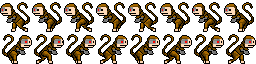
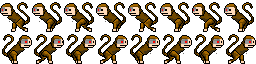
Detach cyber monkey arm for robot war.

diff --git a/SDL_CL_Surface.cpp b/SDL_CL_Surface.cpp
@@ -179,24 +179,28 @@ int SDL_CL_Surface::get_num_frames()
 
 void SDL_CL_Surface::put_screen(int x, int y, int spr_no /* = 0*/)
 {
-	_impl->put_screen(x, y, spr_no);
+	if (!is_null())
+		_impl->put_screen(x, y, spr_no);
 }
 
 void SDL_CL_Surface::put_screen(int x, int y, int scale_x, int scale_y, int spr_no /* = 0*/)
 {
-	int col = spr_no % _impl->_col;
-	int row = spr_no / _impl->_col;
-	SDL_Rect destrect;
-	destrect.x = x;
-	destrect.y = y;
-	destrect.w = scale_x;
-	destrect.h = scale_y;
-	SDL_Rect srcrect;
-	srcrect.x = _impl->_x + _impl->_w * col;
-	srcrect.y = _impl->_y + _impl->_h * row;
-	srcrect.w = _impl->_w;
-	srcrect.h = _impl->_h;
-	SDL_RenderCopy(game_renderer, _impl->_t, &srcrect, &destrect);
+	if (!is_null())
+	{
+		int col = spr_no % _impl->_col;
+		int row = spr_no / _impl->_col;
+		SDL_Rect destrect;
+		destrect.x = x;
+		destrect.y = y;
+		destrect.w = scale_x;
+		destrect.h = scale_y;
+		SDL_Rect srcrect;
+		srcrect.x = _impl->_x + _impl->_w * col;
+		srcrect.y = _impl->_y + _impl->_h * row;
+		srcrect.w = _impl->_w;
+		srcrect.h = _impl->_h;
+		SDL_RenderCopy(game_renderer, _impl->_t, &srcrect, &destrect);
+	}
 }
 
 void SDL_CL_Font_Impl::build_width()

diff --git a/Player.cpp b/Player.cpp
@@ -30,11 +30,10 @@ using namespace std;
 extern World* worldobj;
 extern Globals* globals;
 
-Player::Player() {}
-
 Player::Player(int _playernumber) : Thing((Globals::sprindex)_playernumber) {
 	playernumber = _playernumber;
-	
+	arm = globals->spr[Globals::MONKEYARMONE + _playernumber];
+
 	//in = new InputState(playernumber);
 	in = InputState::playercontrols[playernumber];
 	scoreboard = new ScoreBoard(this);
@@ -248,6 +247,21 @@ void Player::addToFruit(Fruit::flavour newfruit) {
 
 void Player::draw() {
 	Thing::draw();
+	int armframe = 0;
+	if (xaim != 0)
+	{
+		if (yaim == 0)
+			armframe = 2;
+		else if (yaim < 0)
+			armframe = 1;
+		else
+			armframe = 3;
+	}
+	else if (yaim == 0)
+		armframe = 3;
+	else if (yaim > 0)
+		armframe = 4;
+	arm->draw(xpos, ypos, armframe, facingleft);
 	if (invincible) {
 		if ((SDL_GetTicks() % 100) > 50)
 			globals->spr[Globals::FORCEFIELD]->draw(xpos, ypos, 0, false);

diff --git a/Sprite.cpp b/Sprite.cpp
@@ -38,7 +38,10 @@ Sprite::Sprite(std::string resname, CL_ResourceManager* manager) {
 	if (timeperframe == 0)
 	{
 		int animlooptime = 1000 * 60 / globals->loadInt("Constants/musicbpm");
-		timeperframe = animlooptime / getFrames();
+		int frames = getFrames();
+		if (frames == 0)
+			frames = 1;
+		timeperframe = animlooptime / frames;
 	}
 }
 

diff --git a/Globals.cpp b/Globals.cpp
@@ -86,8 +86,8 @@ void Globals::loadSprites() {
 	std::string resname[] = {
 		"Surfaces/player1",
 		"Surfaces/player2",
-		"Surfaces/player3",
-		"Surfaces/player4",
+		"Surfaces/player1arm",
+		"Surfaces/player2arm",
 		"Surfaces/singlegrunt", 
 		"Surfaces/bullet", 
 		"Surfaces/pellet", 
